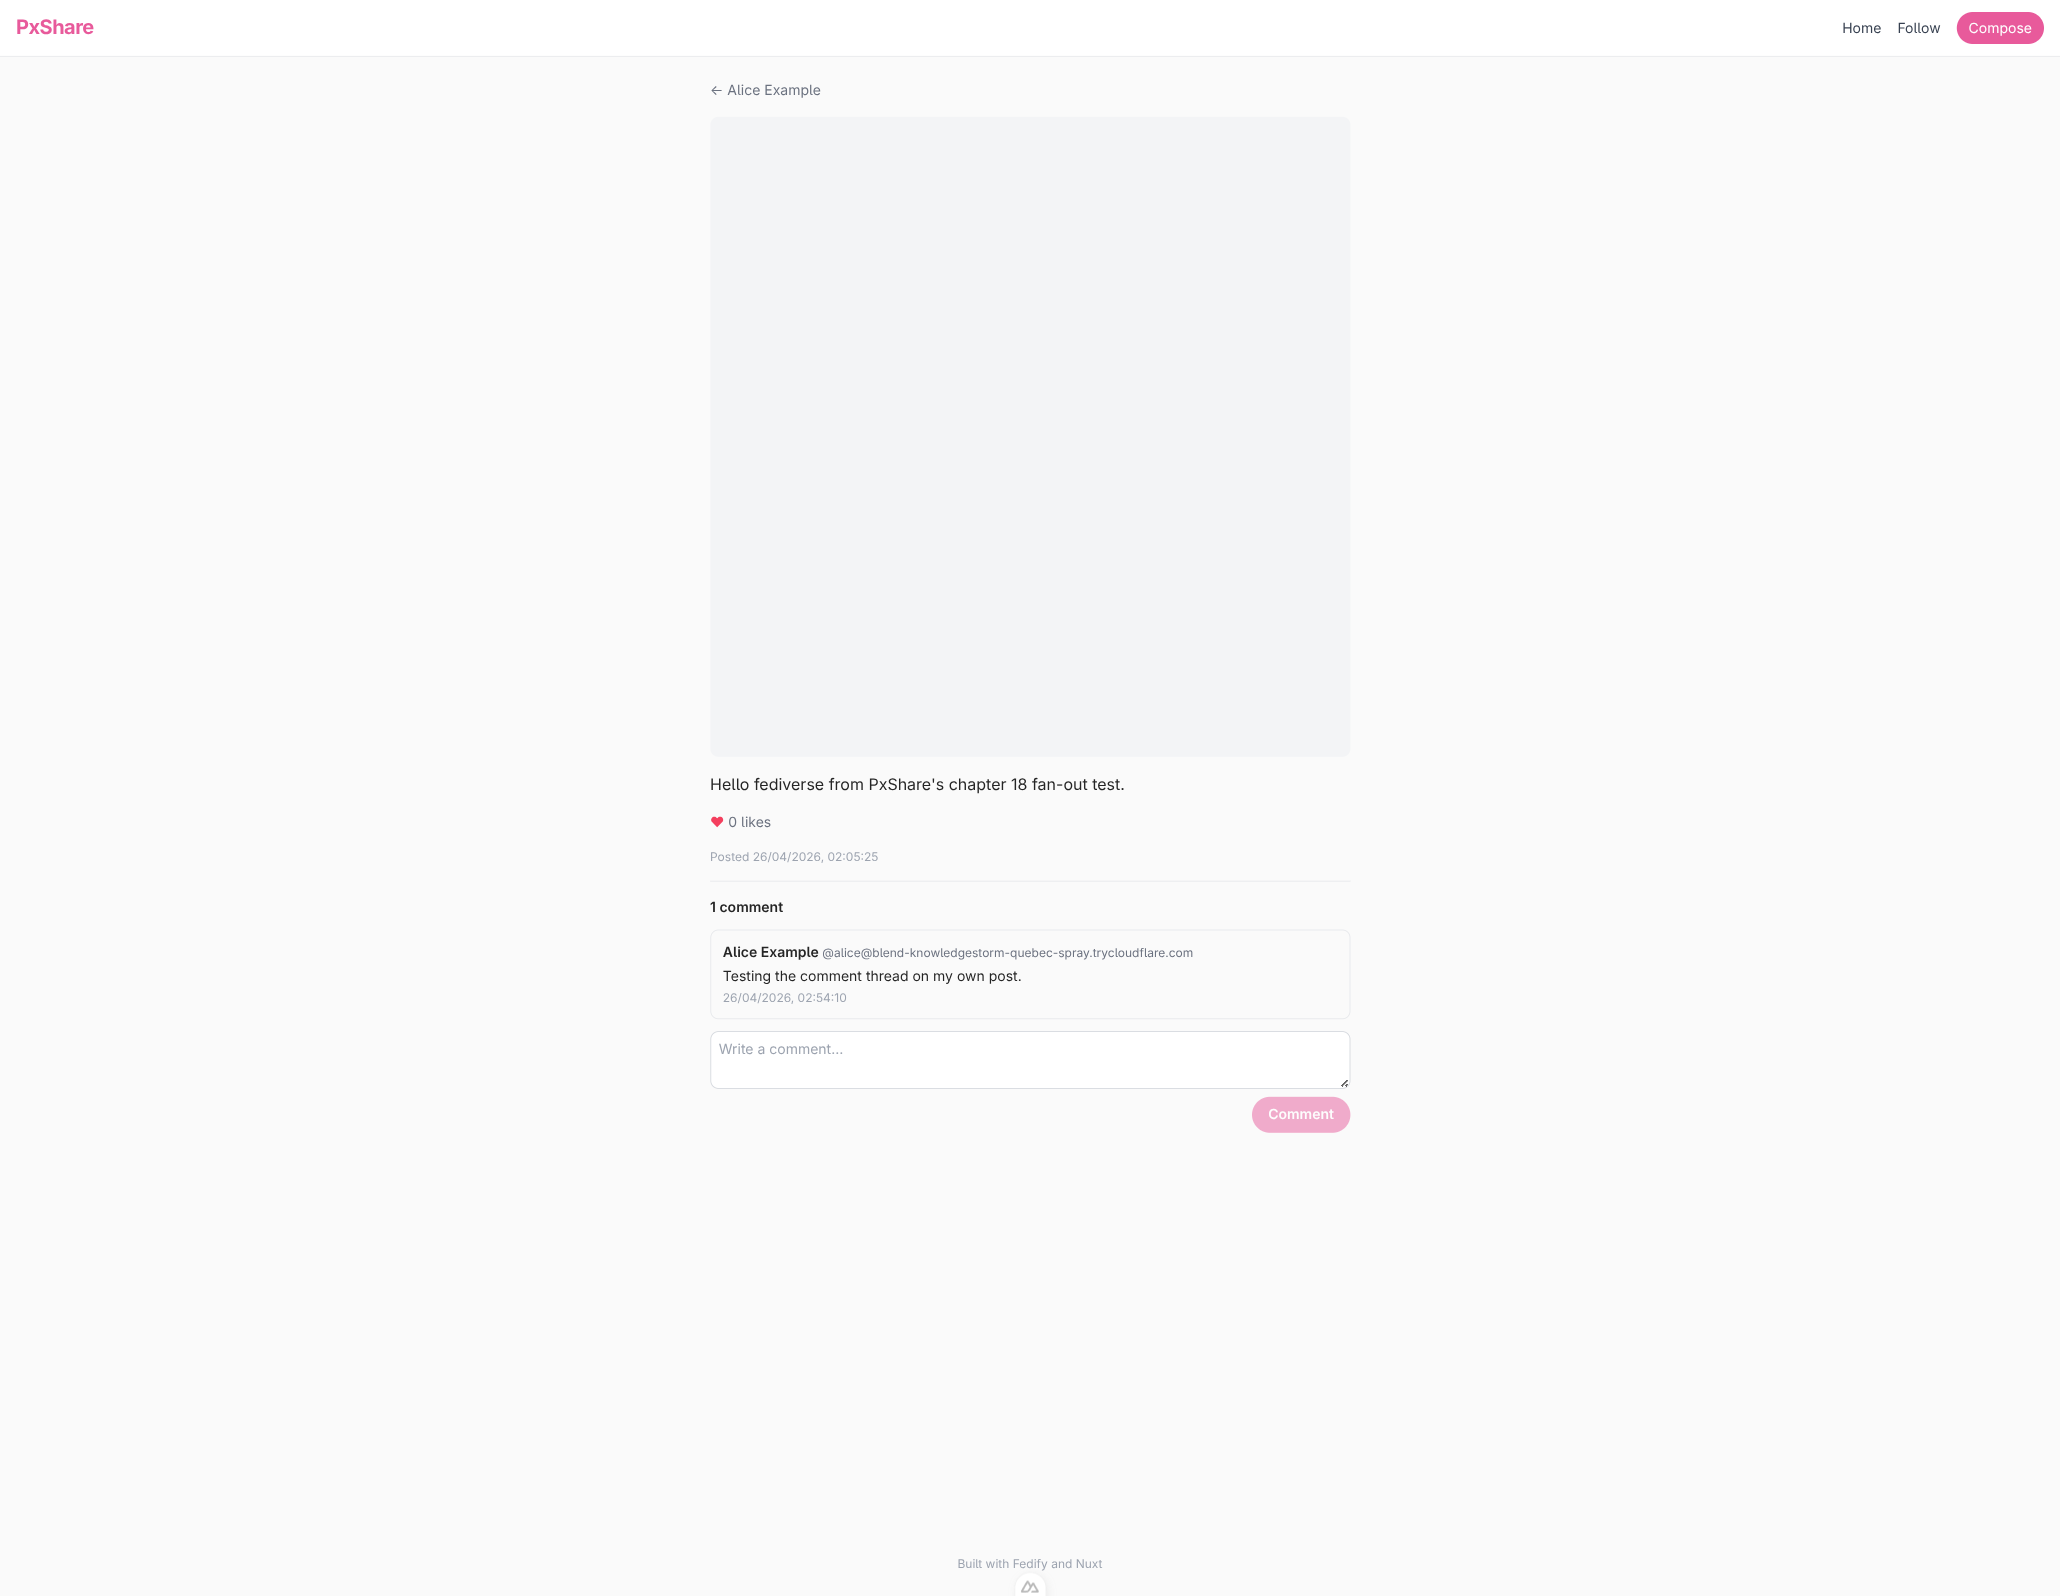
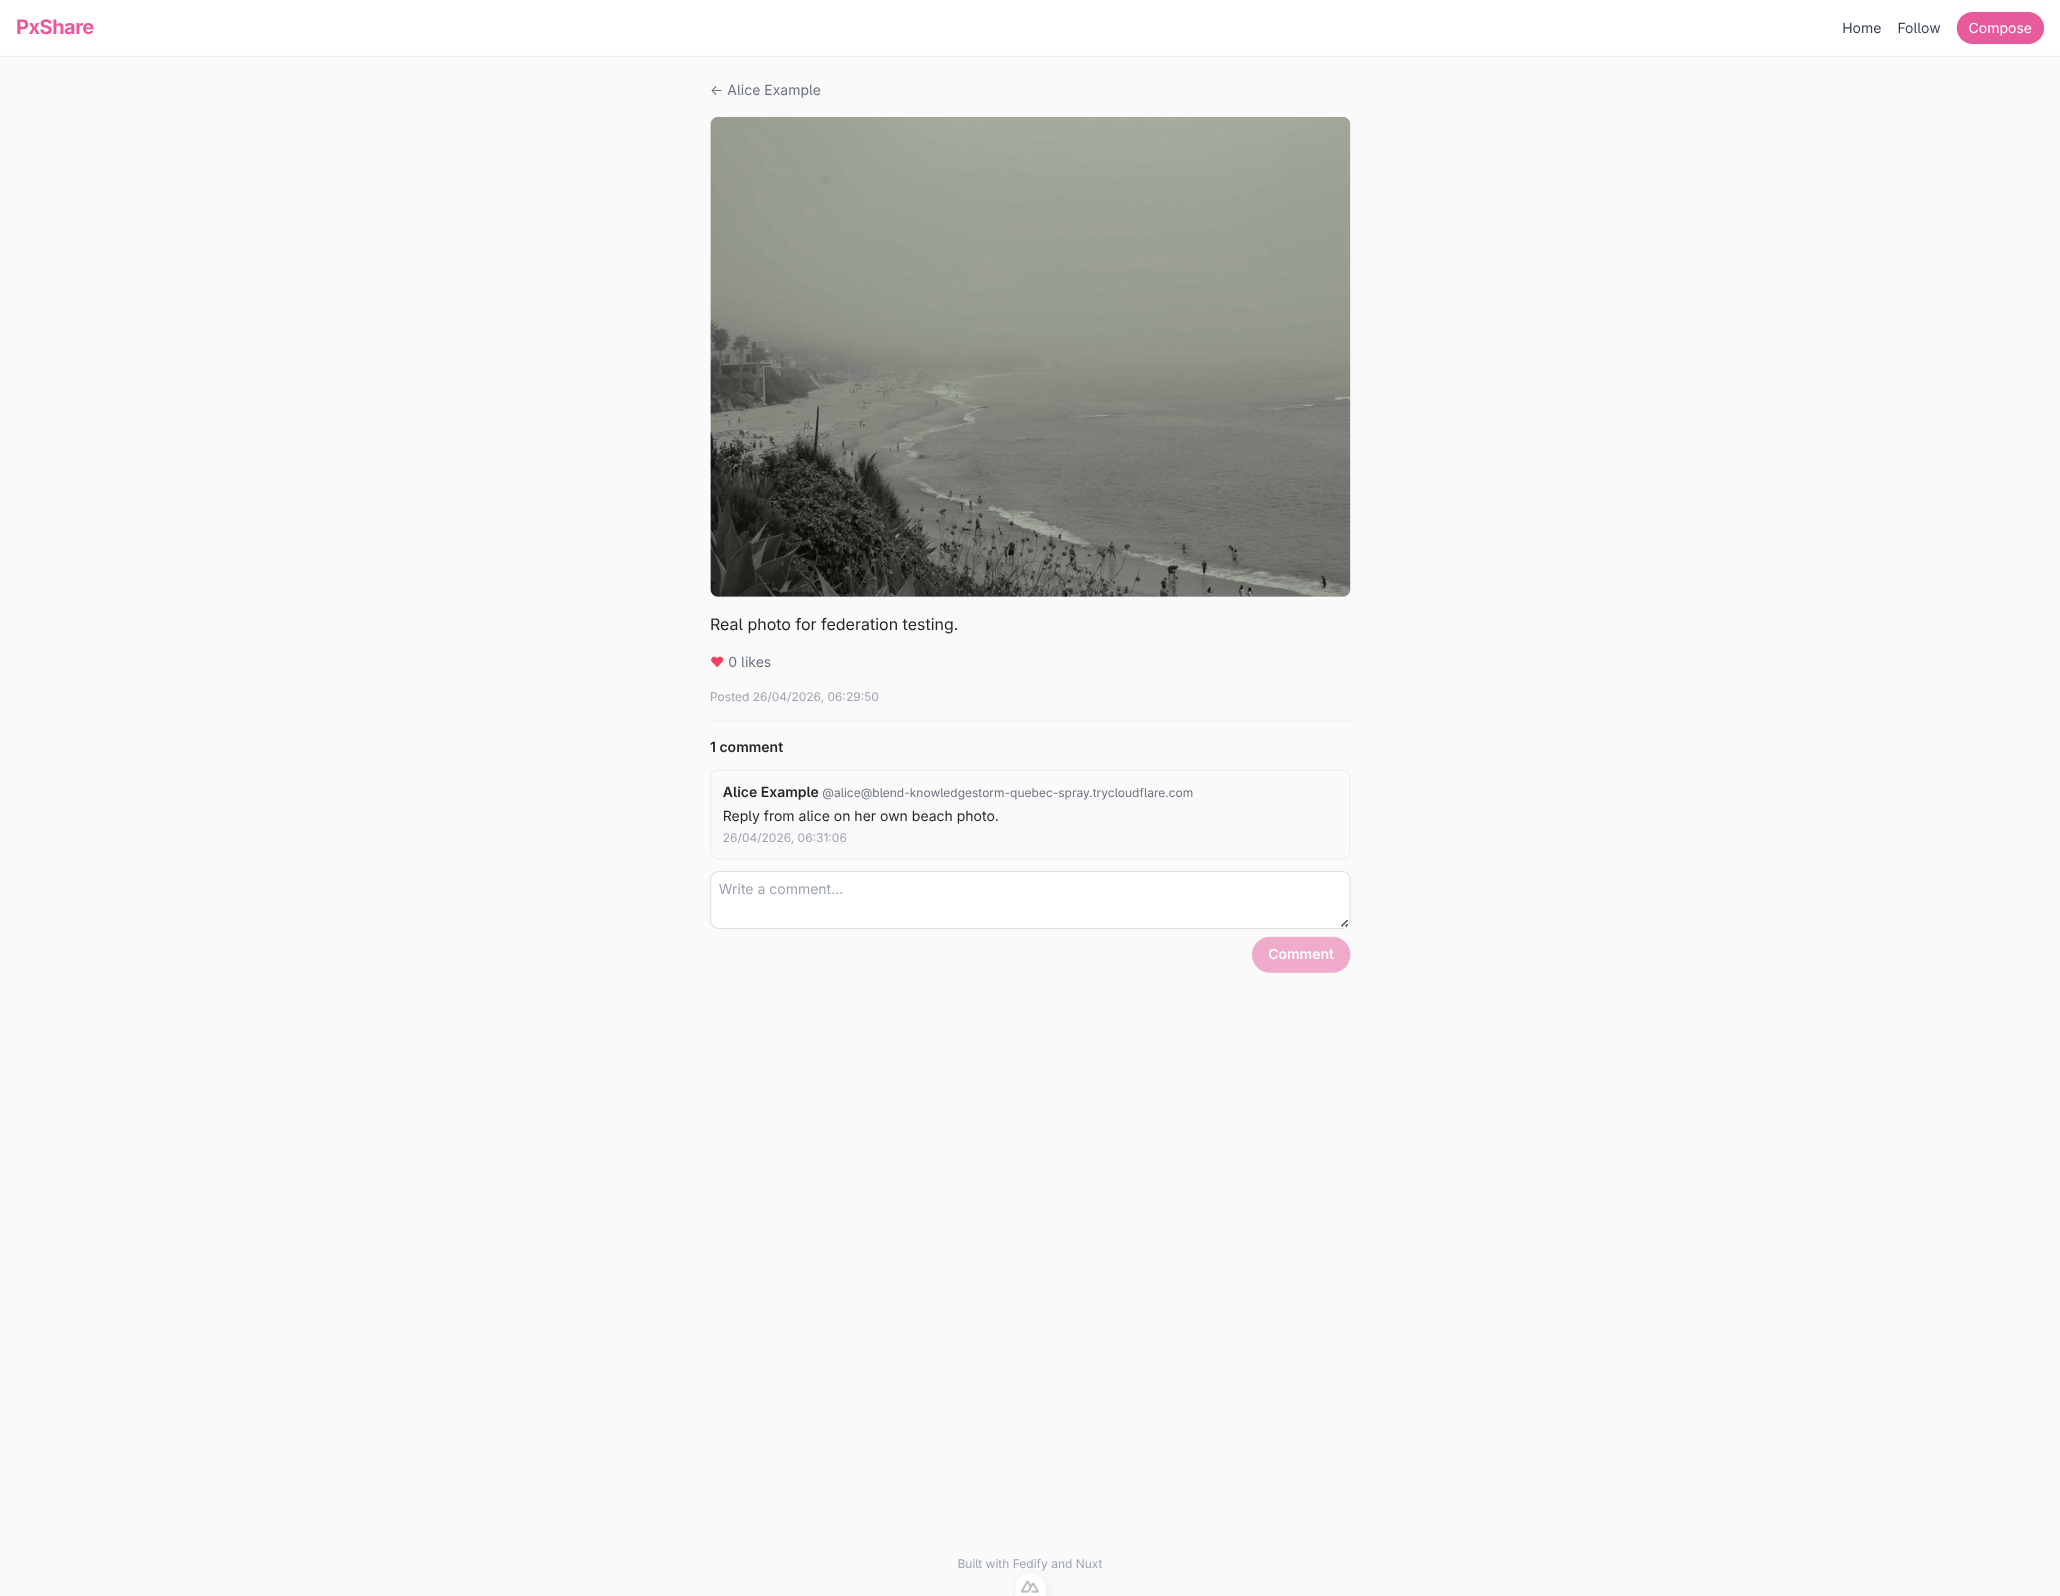
Replace Mastodon-side screenshots with Pixelfed-side proof shots
The tutorial is Pixelfed-style end-to-end, so the federation
chapters should demonstrate the round trip on Pixelfed itself.
Chapter 18 now proves the fan-out by rendering alice's photo
on a Pixelfed home feed (it works once the `firstKnock` flag
from chapter 10 is in place).  Chapter 21 swaps the inbound
home-timeline screenshot from a Mastodon-sourced post to one
sourced from Pixelfed.  Chapter 22 pulls the home-with-like
screenshot in favour of the post detail page that shows alice's
local like counter ticking after a Pixelfed user hearts her
photo.  Chapter 23 swaps the academy-side comment proof for a
Pixelfed-side reply.  Updated prose in all four chapters keeps
example URLs generic (`your-tunnel.example`,
`your-pixelfed.example`) and drops the misleading note about
Mastodon dropping posts in the home column.

Also retakes chapter 23's main screenshot using a real photo
instead of the 1px test PNG that was previously committed.

Drops the now-orphaned *academy-create-note-activity.png*,
*home-timeline.png*, and *home-with-like.png* assets.

Assisted-by: Claude Code:claude-opus-4-7

diff --git a/docs/tutorial/content-sharing.md b/docs/tutorial/content-sharing.md
@@ -4146,50 +4146,50 @@ Three details worth pausing on:
 
 ### Trying it out
 
-Make sure something is following alice first; chapter 10 covered
-two ways to do that, the easiest being to search alice's full
-handle from your Mastodon test account and click *Follow*.  With
-a follower in place, restart the dev server, open the *Compose*
-form on the tunnel URL (so the canonical origin in the activity
-matches the keys alice signs with), pick an image, write a
-caption, and hit *Post*.
+Make sure a Pixelfed account is following alice first; chapter
+10 covered the round trip end-to-end.  With a follower in place,
+restart the dev server, open the *Compose* form on the tunnel
+URL (so the canonical origin in the activity matches the keys
+alice signs with), pick an image, write a caption, and hit
+*Post*.
 
 The dev server logs the delivery the moment Fedify drains the
 queue:
 
 ~~~~ ansi [terminal]
 ℹ INF fedify·federation·outbox Successfully sent activity
-  'https://blend-knowledgestorm-quebec-spray.trycloudflare.com/users/alice/posts/5#create'
-  to 'https://activitypub.academy/users/anbelia_doshaelen/inbox'.
+  'https://your-tunnel.example/users/alice/posts/7#create'
+  to 'https://your-pixelfed.example/users/tester/inbox'.
 ~~~~
 
-ActivityPub.Academy ships a debugging panel called *Activity
-Log* that records every inbox delivery while the page stays
-open.  Open it before you click *Post* and the Create lands in
-real time:
+Refresh the Pixelfed account's *Home Feed*: alice's image lands
+on the feed straight away, captioned and ready to like:
 
-![ActivityPub.Academy's Activity Log showing a Create activity
-from alice carrying a Note whose content is the caption we
-typed.](./content-sharing/academy-create-note-activity.png)
+![Pixelfed's home feed rendering alice's foggy beach photo
+under her handle, with the caption “Pixelfed federation debug
+post.” beneath the
+image.](./content-sharing/pixelfed-home-with-alice-post.png)
+
+This is the round trip the whole tutorial has been pointing at:
+alice composes locally, the fediverse sees it within a second,
+and Pixelfed renders it as a first-class post inside its own
+feed.  Mastodon and GoToSocial accept the same activity and
+behave the same way.
 
 > [!TIP]
-> The Activity Log only captures activities that arrive while
-> its page is open: a refresh wipes it.  If the panel is empty,
-> open it first, then trigger the activity from another tab.
+> If alice's post does not show up, the most common causes are
+> a stale tunnel URL (the activity went out with the wrong
+> canonical origin), the Pixelfed instance running on an older
+> queue worker, or, on Pixelfed specifically, the
+> `firstKnock` setting in *server/federation.ts* not being set
+> to `"draft-cavage-http-signatures-12"`.  Chapter 10 covers
+> that flag in detail.
 
-> [!NOTE]
-> Whether the post then *renders* on a peer's home timeline is
-> a separate question that depends on the peer's filtering and
-> caching.  ActivityPub.Academy stores the inbound activity but
-> does not always surface freshly-federated posts in the home
-> column.  Mastodon proper, Pixelfed, and GoToSocial all show
-> alice's photos within seconds.
-
-Once you have confirmed the activity reaches at least one
-follower, the federation loop is real: alice posts, the
-fediverse sees it.  The next chapter teaches alice to follow
-*back*: discovering remote actors, sending a `Follow`, and
-handling the `Accept` that completes the relationship.
+Once Pixelfed shows the post, the federation loop is real:
+alice posts, the fediverse sees it.  The next chapter teaches
+alice to follow *back*: discovering remote actors, sending a
+`Follow`, and handling the `Accept` that completes the
+relationship.
 
 
 Following remote accounts
@@ -5101,32 +5101,32 @@ if (data.value?.user) {
 
 ### Trying it out
 
-Restart the dev server and from your Mastodon test account
-(the one you followed alice with in chapter 10) post a status
-that includes an image.  Within a second or two, alice's home
-page lights up:
+Restart the dev server and post a photo from a Pixelfed account
+that alice follows (chapter 19 covers the follow flow).  Within
+a second or two, alice's home page lights up:
 
-![alice's home page rendering a single 3-column grid tile that
-shows a galaxy photograph posted by
-anbelia.](./content-sharing/home-timeline.png)
+![alice's home grid showing a single full-width card with
+tester's foggy beach photograph from Pixelfed and the caption
+“Photo from tester for federation
+testing.”](./content-sharing/home-with-pixelfed-post.png)
 
 The dev server narrates the inbound activity, and the database
 gains a row:
 
 ~~~~ ansi [terminal]
-ℹ INF fedify·federation·inbox Activity 'https://activitypub.academy/users/anbelia_doshaelen/statuses/116…/activity'
+ℹ INF fedify·federation·inbox Activity 'https://your-pixelfed.example/p/tester/953…/activity'
   is enqueued.
 ℹ INF fedify·federation·http 'POST' '/inbox': 202
 ℹ INF fedify·federation·inbox Activity '…/activity' has been processed.
 
 $ sqlite3 content-sharing.sqlite3 "SELECT note_uri, author_handle FROM timeline_posts"
-https://activitypub.academy/users/anbelia_doshaelen/statuses/116…|@anbelia_doshaelen@activitypub.academy
+https://your-pixelfed.example/p/tester/953…|@tester@your-pixelfed.example
 ~~~~
 
 Posts arrive in real time: no polling, no scheduled job.  The
-fediverse pushed the activity to alice the instant the remote
-server queued the delivery, and the only thing we added was a
-strict little filter on top of the inbox listener chain.
+fediverse pushed the activity to alice the instant Pixelfed
+queued the delivery, and the only thing we added was a strict
+little filter on top of the inbox listener chain.
 
 
 Likes and undo(like)
@@ -5551,32 +5551,30 @@ counter ticks up, and the dev log shows the outbound `Like`:
 
 ~~~~ ansi [terminal]
 ℹ INF fedify·federation·outbox Successfully sent activity
-  'https://blend-knowledgestorm-quebec-spray.trycloudflare.com/users/alice#likes/8b288acb-…'
-  to 'https://activitypub.academy/users/anbelia_doshaelen/inbox'.
+  'https://your-tunnel.example/users/alice#likes/8b288acb-…'
+  to 'https://your-pixelfed.example/users/tester/inbox'.
 ~~~~
 
-The home grid now renders one full-width card per post with
-the heart in place:
+For the inbound side, click the heart on alice's photo from a
+Pixelfed account that follows her.  Pixelfed sends a `Like` to
+alice's inbox; our handler stores the row, and the post detail
+page shows *1 like* the next time alice loads it:
 
-![alice's home page rendering anbelia's photograph with a
-filled red heart icon and “1 like” beneath
-it.](./content-sharing/home-with-like.png)
-
-For the inbound side, on a Mastodon test account, search for
-one of alice's post URLs (the */users/alice/posts/&lt;id&gt;*
-form), open it, and click *Favourite*.  Mastodon sends a
-`Like` to alice's inbox; our handler stores the row, and the
-post-detail page shows *1 like* the next time alice loads it.
+![alice's post detail page showing her foggy beach photo with
+caption “Pixelfed federation debug post.”, a red heart icon
+and “1 like” beneath
+it.](./content-sharing/post-detail-with-like.png)
 
 Click the heart again to unlike: the counter decrements and an
 `Undo(Like)` flies out, signed with alice's keys.
 
 > [!NOTE]
 > Some peers report likes asynchronously through their own
-> federation queue.  Mastodon delivers within a second; Pleroma
-> can take ten or twenty.  Refreshing the post detail page is
-> the simplest way to see the count update; the closing chapter
-> lists websockets / SSE as a stretch goal for live updates.
+> federation queue.  Pixelfed delivers within a second once its
+> queue worker (Horizon) drains; Mastodon is similarly quick.
+> Refreshing the post detail page is the simplest way to see
+> the count update; the closing chapter lists websockets / SSE
+> as a stretch goal for live updates.
 
 
 Comments
@@ -5865,27 +5863,29 @@ the activity, then the page refreshes with the new comment
 inline:
 
 ![alice's post detail page with a “1 comment” header and a
-single-comment card showing alice's own reply, “Testing the
-comment thread on my own post.”, followed by an empty
+single-comment card showing alice's own reply, “Reply from alice
+on her own beach photo.”, followed by an empty
 textarea.](./content-sharing/post-detail-with-comment.png)
 
 The dev server logs the outbound delivery; alice's followers
-on Mastodon and Pixelfed both thread the reply under the
-original post:
+on Pixelfed thread the reply under the original post:
 
 ~~~~ ansi [terminal]
 ℹ INF fedify·federation·outbox Successfully sent activity
-  'https://blend-knowledgestorm-quebec-spray.trycloudflare.com/users/alice#create-comments/a17a…'
-  to 'https://activitypub.academy/users/anbelia_doshaelen/inbox'.
-ℹ INF fedify·federation·outbox Successfully sent activity '…'
-  to 'https://pxlmo.com/users/hongminhee/inbox'.
+  'https://your-tunnel.example/users/alice#create-comments/a17a…'
+  to 'https://your-pixelfed.example/users/tester/inbox'.
 ~~~~
 
-For inbound, reply to alice's post from your Mastodon test
-account.  Mastodon delivers a `Create(Note)` whose
-`inReplyTo` points at alice's post URI; our listener stores
-the comment, and the post detail page renders it the next time
-alice loads.
+For inbound, reply to alice's post from a Pixelfed account that
+follows her.  Pixelfed delivers a `Create(Note)` whose
+`inReplyTo` points at alice's post URI; our listener stores the
+comment, and alice's post detail page now shows the Pixelfed
+reply threaded beneath the photo:
+
+![alice's post detail page showing one comment whose author is
+&commat;tester&commat;your-pixelfed.example with the body “Reply
+from tester on Pixelfed - federation works!” rendered above the
+comment textarea.](./content-sharing/post-detail-with-pixelfed-comment.png)
 
 
 Where next
